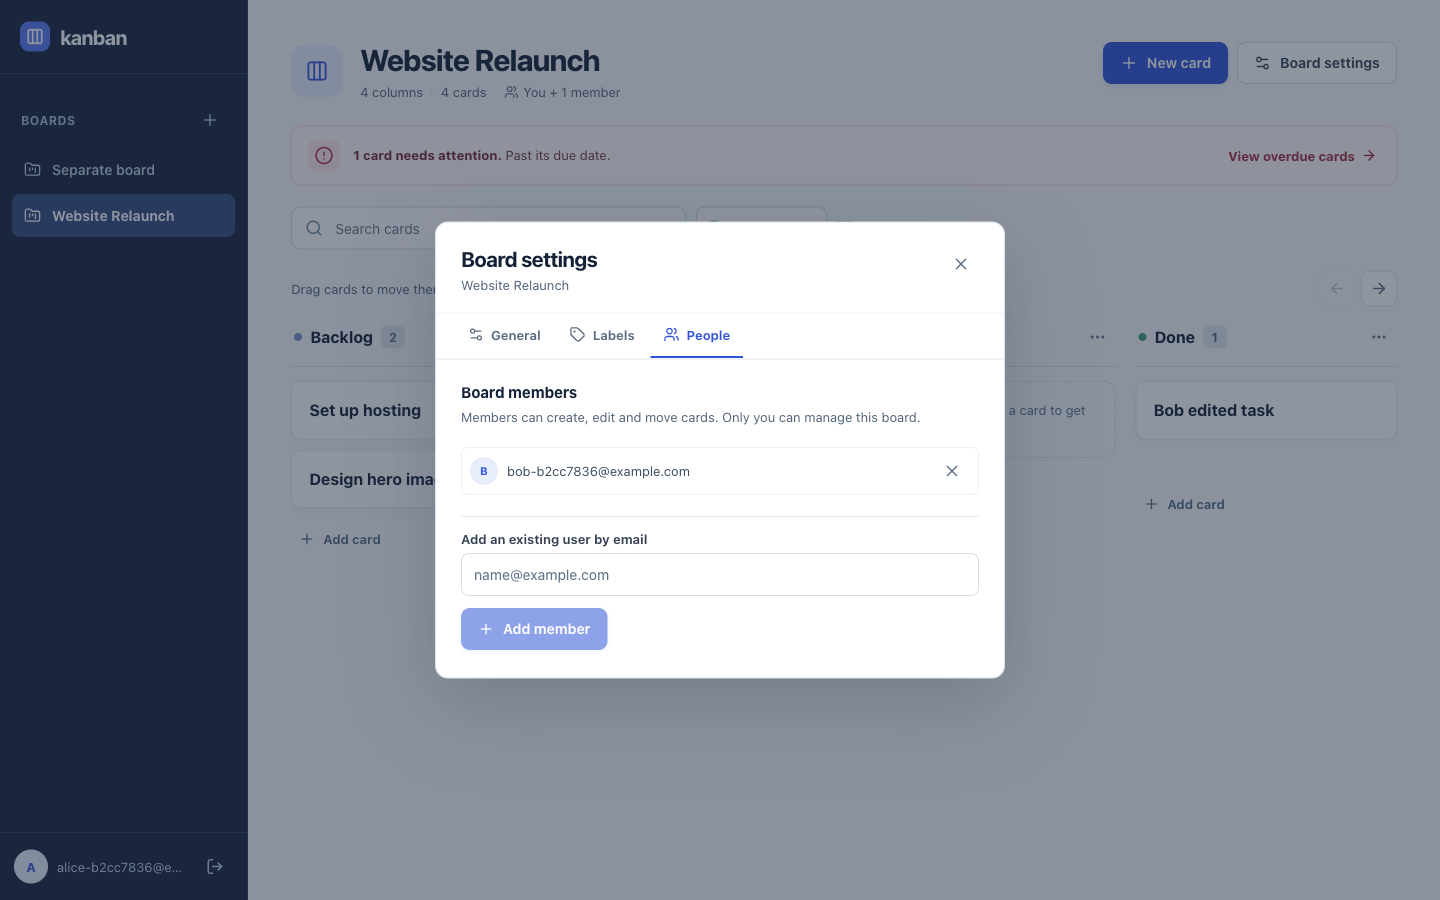
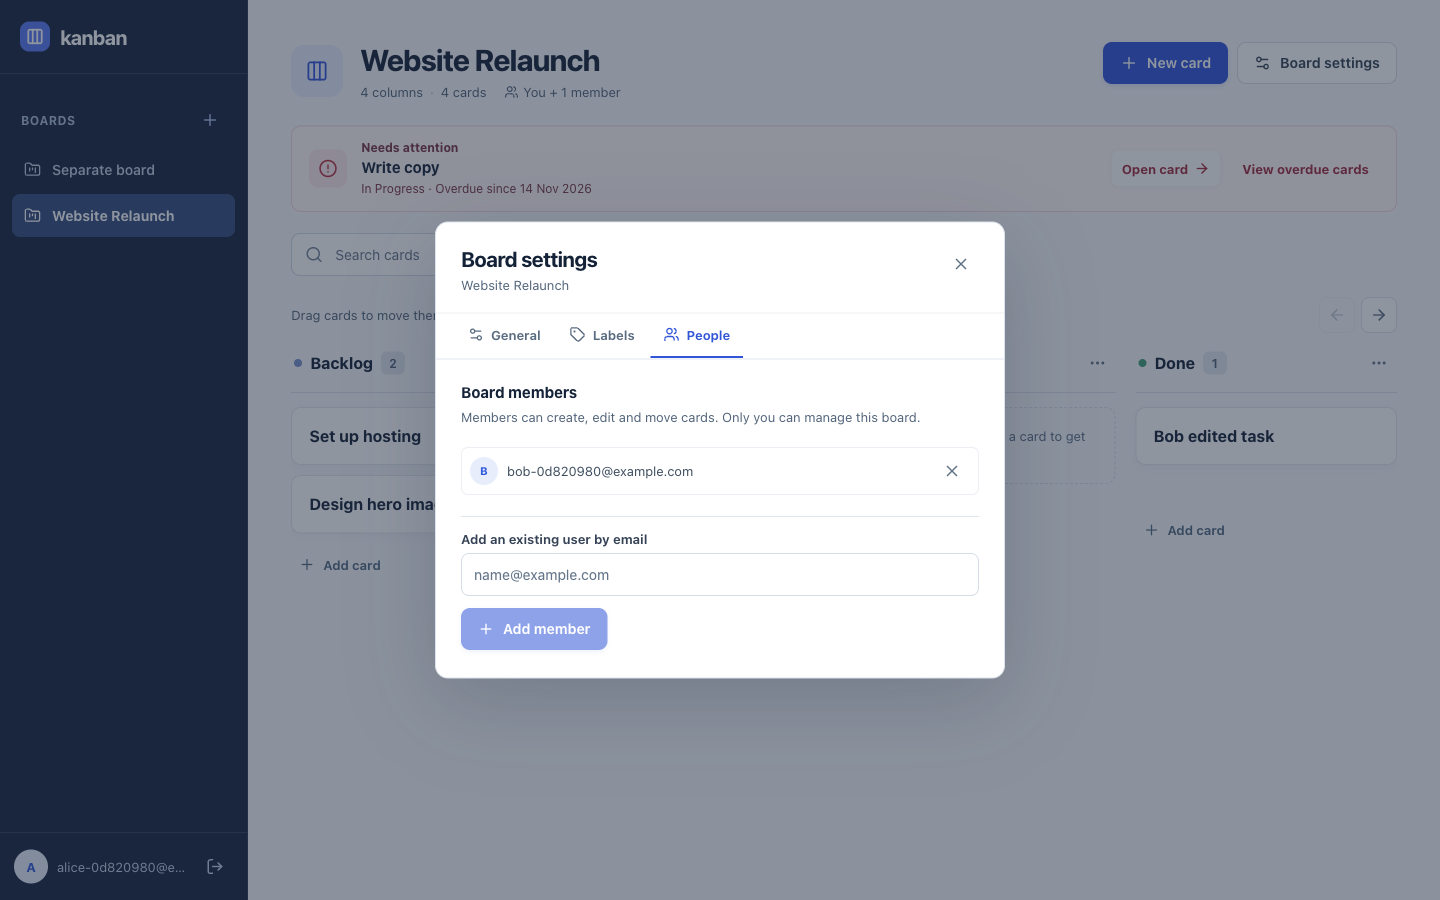
Surface upcoming work and allow card move undo

diff --git a/web/src/App.jsx b/web/src/App.jsx
@@ -1,6 +1,6 @@
 import { useCallback, useEffect, useMemo, useRef, useState } from 'react';
-import { ArrowLeft, ArrowRight, CircleAlert, Columns3, Menu, Plus, Settings2, SlidersHorizontal, Users } from 'lucide-react';
-import { api, isOverdue } from './api.js';
+import { ArrowLeft, ArrowRight, CalendarDays, CircleAlert, Columns3, Menu, Plus, Settings2, SlidersHorizontal, Users } from 'lucide-react';
+import { api, formatDate, isOverdue } from './api.js';
 import { AuthScreen, BoardColumn, BoardSettings, BootScreen, CardEditor, ConfirmDialog, FilterBar, IconButton, NameDialog, Sidebar } from './components.jsx';
 
 const savedBoardKey = 'kanban:selected-board';
@@ -23,14 +23,21 @@ export default function App() {
   const [dialog, setDialog] = useState(null);
   const [dialogError, setDialogError] = useState('');
   const [toast, setToast] = useState('');
+  const [undoMoveInfo, setUndoMoveInfo] = useState(null);
   const [search, setSearch] = useState('');
   const [labelId, setLabelId] = useState('');
   const [overdueOnly, setOverdueOnly] = useState(false);
   const [mobileOpen, setMobileOpen] = useState(false);
   const [scrollState, setScrollState] = useState({ left: false, right: false });
   const boardRef = useRef(null);
+  const toastTimer = useRef(null);
 
-  const notify = useCallback((message) => { setToast(message); window.setTimeout(() => setToast(''), 4500); }, []);
+  const notify = useCallback((message, undo = null) => {
+    window.clearTimeout(toastTimer.current);
+    setToast(message); setUndoMoveInfo(undo);
+    toastTimer.current = window.setTimeout(() => { setToast(''); setUndoMoveInfo(null); }, undo ? 7000 : 4500);
+  }, []);
+  useEffect(() => () => window.clearTimeout(toastTimer.current), []);
   const clearFilters = () => { setSearch(''); setLabelId(''); setOverdueOnly(false); };
   const closeDialog = () => { setDialog(null); setDialogError(''); };
   const openDialog = (next) => { setDialogError(''); setDialog(next); };
@@ -156,7 +163,21 @@ export default function App() {
   }
 
   async function moveCard(cardId, columnId, index) {
-    await mutate(`/boards/${board.id}/cards/move`, 'PATCH', { card_id: cardId, column_id: columnId, index }, 'Card moved.');
+    const source = board.columns.find((column) => column.cards.some((card) => card.id === cardId));
+    if (!source) return;
+    const originalIndex = source.cards.findIndex((card) => card.id === cardId);
+    await run(async () => {
+      const snapshot = await api(`/boards/${board.id}/cards/move`, 'PATCH', { card_id: cardId, column_id: columnId, index });
+      applySnapshot(snapshot);
+      notify('Card moved.', { boardId: board.id, cardId, columnId: source.id, index: originalIndex });
+    });
+  }
+
+  async function undoLastMove() {
+    if (!undoMoveInfo || undoMoveInfo.boardId !== board?.id) return;
+    const { cardId, columnId, index } = undoMoveInfo;
+    setUndoMoveInfo(null);
+    await mutate(`/boards/${board.id}/cards/move`, 'PATCH', { card_id: cardId, column_id: columnId, index }, 'Move undone.');
   }
 
   async function reorderColumn(columnId, direction) {
@@ -191,6 +212,11 @@ export default function App() {
   const visibleCount = [...visibleCards.values()].reduce((count, cards) => count + cards.length, 0);
   const totalCount = board?.columns.reduce((count, column) => count + column.cards.length, 0) || 0;
   const overdueCount = board?.columns.reduce((count, column) => count + column.cards.filter((card) => isOverdue(card.due_date)).length, 0) || 0;
+  const dueHorizon = new Date();
+  dueHorizon.setDate(dueHorizon.getDate() + 7);
+  const horizonDate = [dueHorizon.getFullYear(), String(dueHorizon.getMonth() + 1).padStart(2, '0'), String(dueHorizon.getDate()).padStart(2, '0')].join('-');
+  const upcoming = board?.columns.flatMap((column) => column.name.toLocaleLowerCase() === 'done' ? [] : column.cards.filter((card) => card.due_date && card.due_date <= horizonDate).map((card) => ({ ...card, columnName: column.name, columnId: column.id }))).sort((a, b) => a.due_date.localeCompare(b.due_date)) || [];
+  const nextDue = upcoming[0];
   const hasFilters = !!(search || labelId || overdueOnly);
 
   useEffect(() => {
@@ -214,7 +240,7 @@ export default function App() {
       <div className="mobile-header"><IconButton icon={Menu} label="Open navigation" onClick={() => setMobileOpen(true)} /><span className="wordmark"><span className="wordmark-symbol"><Columns3 size={17} strokeWidth={2.4} aria-hidden="true" /></span>kanban</span></div>
       {boardLoading ? <div className="board-loading" role="status">Loading board…</div> : boardError ? <div className="empty-workspace"><div className="empty-icon"><SlidersHorizontal size={26} aria-hidden="true" /></div><h1>Board unavailable</h1><p>{boardError}</p><button className="button secondary" onClick={() => { setBoardError(''); window.history.replaceState({}, '', '/'); }}>Back to boards</button></div> : !board ? <div className="empty-workspace"><div className="empty-icon"><FolderKanbanIcon /></div><h1>Bring your work together.</h1><p>Create a board to organize the next thing your team is building.</p><button className="button primary" onClick={() => openDialog({ type: 'createBoard' })}><Plus size={18} aria-hidden="true" />Create your first board</button></div> : <>
         <header className="workspace-header"><div className="header-copy"><div className="board-heading"><span className="board-emblem" aria-hidden="true"><Columns3 size={23} strokeWidth={1.9} /></span><div><h1>{board.name}</h1><p className="board-meta">{board.columns.length} {board.columns.length === 1 ? 'column' : 'columns'} <span>·</span> {totalCount} {totalCount === 1 ? 'card' : 'cards'}{board.members.length > 0 && <span className="team-count"><Users size={14} aria-hidden="true" /> You + {board.members.length} {board.members.length === 1 ? 'member' : 'members'}</span>}</p></div></div></div><div className="header-actions"><button className="button primary new-card-button" disabled={!board.columns.length} title={board.columns.length ? 'Add a card to the first column' : 'Add a column first'} onClick={() => openDialog({ type: 'card', columnId: board.columns[0].id })}><Plus size={18} aria-hidden="true" />New card</button>{board.owner && <button className="button secondary manage-button" onClick={() => openDialog({ type: 'settings' })}><Settings2 size={17} aria-hidden="true" />Board settings</button>}</div></header>
-        {overdueCount > 0 && <div className="attention-note"><span className="attention-symbol"><CircleAlert size={19} aria-hidden="true" /></span><p><strong>{overdueCount} {overdueCount === 1 ? 'card needs' : 'cards need'} attention.</strong> Past {overdueCount === 1 ? 'its' : 'their'} due date.</p><button type="button" onClick={() => { setSearch(''); setLabelId(''); setOverdueOnly(true); boardRef.current?.scrollTo({ left: 0, behavior: 'smooth' }); }}>View overdue cards <ArrowRight size={16} aria-hidden="true" /></button></div>}
+        {nextDue && <div className={`attention-note ${isOverdue(nextDue.due_date) ? 'is-overdue' : ''}`}><span className="attention-symbol">{isOverdue(nextDue.due_date) ? <CircleAlert size={19} aria-hidden="true" /> : <CalendarDays size={19} aria-hidden="true" />}</span><div className="attention-copy"><strong>{isOverdue(nextDue.due_date) ? 'Needs attention' : 'Coming up'}</strong><p>{nextDue.title}</p><span>{nextDue.columnName} · {isOverdue(nextDue.due_date) ? 'Overdue since ' : 'Due '}{formatDate(nextDue.due_date)}{upcoming.length > 1 ? ` · ${upcoming.length - 1} more with deadlines` : ''}</span></div><div className="attention-actions"><button type="button" className="attention-open" onClick={() => openDialog({ type: 'card', card: nextDue, columnId: nextDue.columnId })}>Open card <ArrowRight size={16} aria-hidden="true" /></button>{overdueCount > 0 && <button type="button" className="attention-filter" onClick={() => { setSearch(''); setLabelId(''); setOverdueOnly(true); boardRef.current?.scrollTo({ left: 0, behavior: 'smooth' }); }}>View overdue cards</button>}</div></div>}
         <FilterBar search={search} setSearch={setSearch} labelId={labelId} setLabelId={setLabelId} overdueOnly={overdueOnly} setOverdueOnly={setOverdueOnly} labels={board.labels} hasFilters={hasFilters} onClear={clearFilters} />
         <div className="board-tools"><p>{hasFilters ? `${visibleCount} of ${totalCount} cards shown` : 'Drag cards to move them, or open a card for more options.'}</p><div className="board-navigation"><IconButton icon={ArrowLeft} label="Scroll columns left" disabled={!scrollState.left} onClick={() => boardRef.current?.scrollBy({ left: -350, behavior: 'smooth' })} /><IconButton icon={ArrowRight} label="Scroll columns right" disabled={!scrollState.right} onClick={() => boardRef.current?.scrollBy({ left: 350, behavior: 'smooth' })} /></div></div>
         {hasFilters && visibleCount === 0 && <div className="filter-empty"><SlidersHorizontal size={19} aria-hidden="true" /><span>No cards match these filters.</span><button type="button" onClick={clearFilters}>Clear filters</button></div>}
@@ -223,7 +249,7 @@ export default function App() {
         </div>
       </>}
     </main>
-    {toast && <div className="toast" role="status" aria-live="polite">{toast}</div>}
+    {toast && <div className="toast" role="status" aria-live="polite"><span>{toast}</span>{undoMoveInfo?.boardId === board?.id && <button type="button" onClick={undoLastMove}>Undo</button>}</div>}
     {dialog?.type === 'createBoard' && <NameDialog title="Create board" label="Board name" submitLabel="Create board" onSave={createBoard} onClose={closeDialog} busy={busy} error={dialogError} />}
     {dialog?.type === 'createColumn' && <NameDialog title="Add column" label="Column name" submitLabel="Add column" onSave={(name) => mutate(`/boards/${board.id}/columns`, 'POST', { name }, 'Column added.', true)} onClose={closeDialog} busy={busy} error={dialogError} />}
     {dialog?.type === 'renameColumn' && <NameDialog title="Rename column" label="Column name" initial={dialog.column.name} submitLabel="Save name" onSave={(name) => mutate(`/boards/${board.id}/columns/${dialog.column.id}`, 'PATCH', { name }, 'Column renamed.', true)} onClose={closeDialog} busy={busy} error={dialogError} />}

diff --git a/web/src/styles.css b/web/src/styles.css
@@ -122,12 +122,20 @@ button, input, textarea, select { -webkit-tap-highlight-color: transparent; }
 .board-meta .team-count { display: inline-flex; align-items: center; gap: 5px; margin-left: 11px; color: var(--muted); }
 .header-actions { display: flex; align-items: center; gap: 9px; }
 .manage-button { margin: 0; }
-.attention-note { display: flex; align-items: center; gap: 13px; margin: 0 0 21px; padding: 13px 16px; border: 1px solid #f2d9df; border-radius: 10px; background: #fff8f9; color: #713e49; }
-.attention-symbol { display: grid; place-items: center; width: 32px; height: 32px; flex: none; border-radius: 8px; background: #fce7eb; color: #b73344; }
-.attention-note p { flex: 1; min-width: 0; margin: 0; font-size: 13px; line-height: 1.45; }
-.attention-note strong { color: #742937; font-weight: 720; }
-.attention-note button { display: inline-flex; align-items: center; gap: 6px; flex: none; padding: 5px 3px; border: 0; background: transparent; color: #a12c3f; font-size: 13px; font-weight: 700; }
-.attention-note button:hover { text-decoration: underline; }
+.attention-note { display: flex; align-items: center; gap: 14px; margin: 0 0 21px; padding: 14px 17px; border: 1px solid #d8e2f6; border-radius: 10px; background: #f2f6ff; color: #2d456f; }
+.attention-note.is-overdue { border-color: #f0d5da; background: #fff7f8; color: #7a3542; }
+.attention-symbol { display: grid; place-items: center; width: 38px; height: 38px; flex: none; border-radius: 9px; background: #e2eaff; color: var(--blue); }
+.is-overdue .attention-symbol { background: #fce7eb; color: #b73344; }
+.attention-copy { display: grid; gap: 3px; flex: 1; min-width: 0; }
+.attention-copy strong { font-size: 12px; font-weight: 740; }
+.attention-copy p { margin: 0; color: var(--ink); font-size: 15px; line-height: 1.3; font-weight: 680; overflow-wrap: anywhere; }
+.attention-copy span { font-size: 12px; line-height: 1.4; }
+.attention-actions { display: flex; align-items: center; gap: 12px; flex: none; }
+.attention-actions button { display: inline-flex; align-items: center; gap: 6px; min-height: 36px; padding: 7px 10px; border: 0; border-radius: 7px; background: transparent; color: var(--blue); font-size: 13px; font-weight: 700; }
+.attention-actions button:hover { background: #e3eafb; }
+.is-overdue .attention-actions button { color: #a12c3f; }
+.is-overdue .attention-actions button:hover { background: #f9e9ec; }
+.attention-actions .attention-open { background: #fff; box-shadow: 0 1px 3px #1d2b3d12; }
 .filter-bar { display: flex; align-items: center; gap: 10px; margin-bottom: 21px; flex-wrap: wrap; }
 .search-field { display: flex; align-items: center; gap: 10px; width: min(100%, 395px); min-width: 220px; height: 43px; padding: 0 13px; border: 1px solid #cfd9e5; border-radius: 9px; background: white; color: #72859b; }
 .search-field:focus-within { border-color: #6b8cf1; outline: 3px solid #e4ebff; }
@@ -239,7 +247,9 @@ button, input, textarea, select { -webkit-tap-highlight-color: transparent; }
 .settings-list .list-empty { margin: 0; padding: 14px 0; }
 .settings-add-form { padding-top: 14px; border-top: 1px solid var(--line); }
 .member-row { display: inline-flex; align-items: center; gap: 9px; min-width: 0; overflow-wrap: anywhere; color: #3d4d5e; font-size: 13px; }
-.toast { position: fixed; right: 20px; bottom: 20px; z-index: 100; max-width: min(370px, calc(100vw - 40px)); padding: 12px 16px; border-radius: 8px; background: #202b3a; box-shadow: 0 10px 30px #1a253d33; color: white; font-size: 13px; }
+.toast { position: fixed; right: 20px; bottom: 20px; z-index: 100; display: flex; align-items: center; justify-content: space-between; gap: 18px; max-width: min(370px, calc(100vw - 40px)); min-height: 46px; padding: 9px 12px 9px 16px; border-radius: 8px; background: #202b3a; box-shadow: 0 10px 30px #1a253d33; color: white; font-size: 13px; }
+.toast button { min-height: 32px; padding: 5px 9px; border: 0; border-radius: 6px; background: #3a4d69; color: #fff; font-size: 13px; font-weight: 720; }
+.toast button:hover { background: #526b91; }
 .empty-workspace { display: flex; align-items: flex-start; flex-direction: column; justify-content: center; max-width: 460px; min-height: calc(100vh - 160px); margin: 0 auto; }
 .empty-icon { display: grid; place-items: center; width: 52px; height: 52px; margin-bottom: 18px; border-radius: 14px; background: var(--blue-wash); color: var(--blue); }
 .empty-workspace h1 { margin: 0 0 8px; font-size: 26px; letter-spacing: -.03em; }
@@ -286,8 +296,8 @@ button, input, textarea, select { -webkit-tap-highlight-color: transparent; }
   .header-actions { flex-wrap: wrap; }
   .board-meta .team-count { margin-left: 0; }
   .attention-note { flex-wrap: wrap; }
-  .attention-note p { flex-basis: calc(100% - 45px); }
-  .attention-note button { margin-left: 45px; }
+  .attention-copy { flex-basis: calc(100% - 54px); }
+  .attention-actions { width: 100%; padding-left: 49px; flex-wrap: wrap; gap: 4px; }
   .form-row { grid-template-columns: 1fr; }
   .settings-danger { align-items: flex-start; flex-direction: column; }
   .dialog-header, .dialog-body, .settings-panel { padding-left: 19px; padding-right: 19px; }

diff --git a/tests/browser_visible.py b/tests/browser_visible.py
@@ -146,9 +146,13 @@ with sync_playwright() as playwright:
     column(alice, 'Backlog').locator('.task-card').first.get_by_text('Set up hosting').wait_for()
     card(alice, 'Write copy').drag_to(column(alice, 'In Progress').locator('.column-cards'))
     column(alice, 'In Progress').get_by_text('Write copy').wait_for()
+    alice.locator('.toast').get_by_role('button', name='Undo').click()
+    column(alice, 'Backlog').get_by_text('Write copy').wait_for()
+    card(alice, 'Write copy').drag_to(column(alice, 'In Progress').locator('.column-cards'))
+    column(alice, 'In Progress').get_by_text('Write copy').wait_for()
     card(alice, 'Write copy').drag_to(column(alice, 'Backlog').locator('.column-cards'))
     column(alice, 'Backlog').get_by_text('Write copy').wait_for()
-    step('Desktop drag and drop within and across columns')
+    step('Desktop drag and drop within/across columns, with Undo')
 
     open_settings(alice, 'Labels')
     alice.get_by_role('tab', name='Labels').focus()
@@ -173,6 +177,10 @@ with sync_playwright() as playwright:
     assert card(alice, 'Write copy').get_by_text('Overdue', exact=False).is_visible()
     step('Board labels, overdue date and cross-column move')
 
+    alice.get_by_role('button', name='Open card').click()
+    alice.get_by_role('heading', name='Edit card').wait_for()
+    assert alice.get_by_role('textbox', name='Title', exact=True).input_value() == 'Write copy'
+    close_dialog(alice)
     alice.get_by_role('button', name='View overdue cards').click()
     assert alice.locator('.task-card').count() == 1
     alice.get_by_role('button', name='Clear filters').first.click()
@@ -197,6 +205,7 @@ with sync_playwright() as playwright:
     alice.get_by_label('Due date').fill((date.today() + timedelta(days=7)).isoformat())
     alice.get_by_role('button', name='Save changes').click()
     assert card(alice, 'Write copy').get_by_text('Overdue', exact=False).count() == 0
+    alice.get_by_text('Coming up', exact=True).wait_for()
     card(alice, 'Write copy').click()
     alice.get_by_label('Due date').fill((date.today() - timedelta(days=1)).isoformat())
     alice.get_by_role('button', name='Save changes').click()

diff --git a/README.md b/README.md
@@ -46,7 +46,8 @@ Open [http://127.0.0.1:5173](http://127.0.0.1:5173). Vite proxies `/api` to port
 - New boards start with To Do, In Progress and Done. Owners can add, rename, reorder and delete columns, and manage board labels and members.
 - Use **Add card** in a column to capture a title inline, then keep adding without leaving the board. Choose **More details** to carry the title into the full editor for a description, due date, labels and placement. Click a card to edit it. Drag a card onto another card or empty part of a column to move it, or choose its column and position in the editor. Reload to verify saved order.
 - Search titles and descriptions without case sensitivity. Label and overdue filters combine with search.
-- A board-level attention cue opens overdue cards in one click; the main New card action starts a card in the first column.
+- When a card is overdue or due within seven days, the board highlights the next deadline by card name and opens it directly. Overdue cards can still be filtered in one click. The main New card action starts a card in the first column.
+- After moving a card, use the temporary **Undo** action to restore its previous column and position.
 - Open a card to edit or delete it. A column with cards cannot be deleted until they are moved or deleted.
 - Closing a card with unsaved edits asks whether to keep editing or discard the changes.
 - Use **Board settings** to rename or delete a board, create or remove labels, and add or remove members.

diff --git a/TESTING.md b/TESTING.md
@@ -37,8 +37,8 @@ The browser script creates random `@example.com` test accounts in the disposable
 | --- | --- |
 | Access | Signed-out workspace hidden; sign-up, sign-out, sign-in |
 | Boards and columns | Create board; add, reorder, rename and delete columns; delete board with cards |
-| Cards | Required title; inline quick capture; draft handoff to full editor; unsaved-edit discard choice; create, edit, delete; native drag and drop within/across columns; editor-based move |
-| Due dates and labels | Overdue flag appears and clears; board label creation and card attachment |
+| Cards | Required title; inline quick capture; draft handoff to full editor; unsaved-edit discard choice; create, edit, delete; native drag and drop within/across columns with Undo; editor-based move |
+| Due dates and labels | Overdue flag appears and clears; next deadline opens its card; due-soon summary; board label creation and card attachment |
 | Finding cards | Case-insensitive description search; label and overdue filters together; no-match state |
 | Teams | Member sees and changes cards; owner sees member changes; member board/column/label/member API changes receive 403; non-member board request receives 404 |
 | Persistence and layout | Reload retains board and card positions; complete “In Progress” heading and four columns at 1440px; sign-in, board, editor, settings and mobile screenshots; no page overflow at 320px; no browser page errors |
